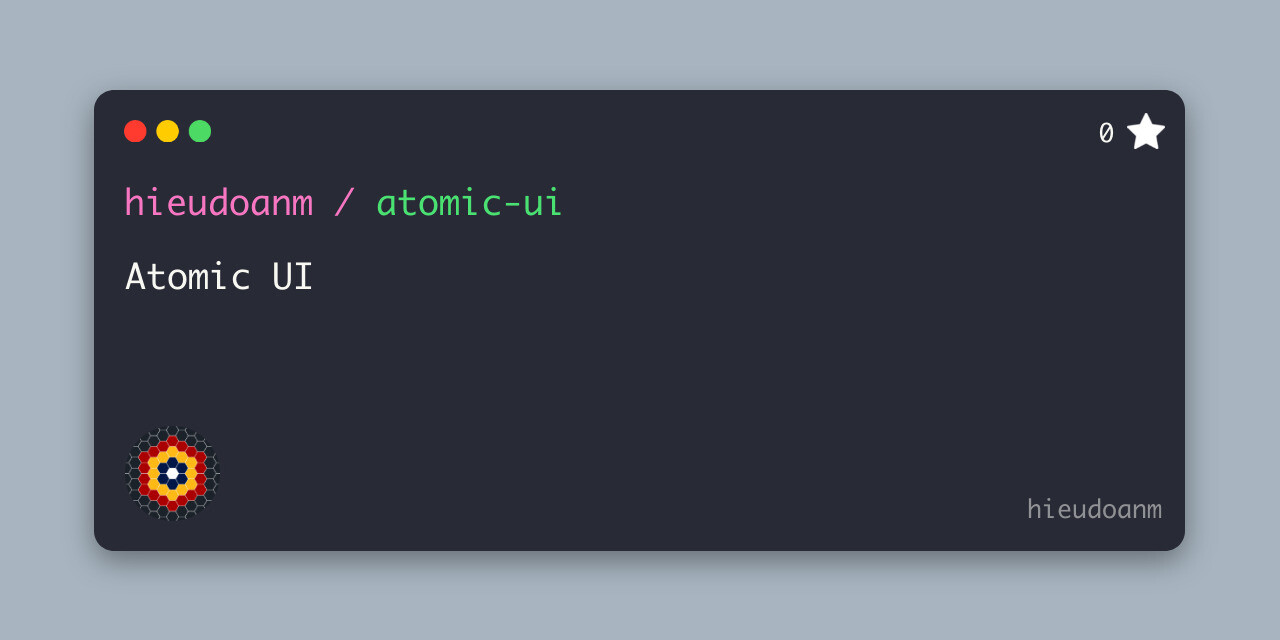
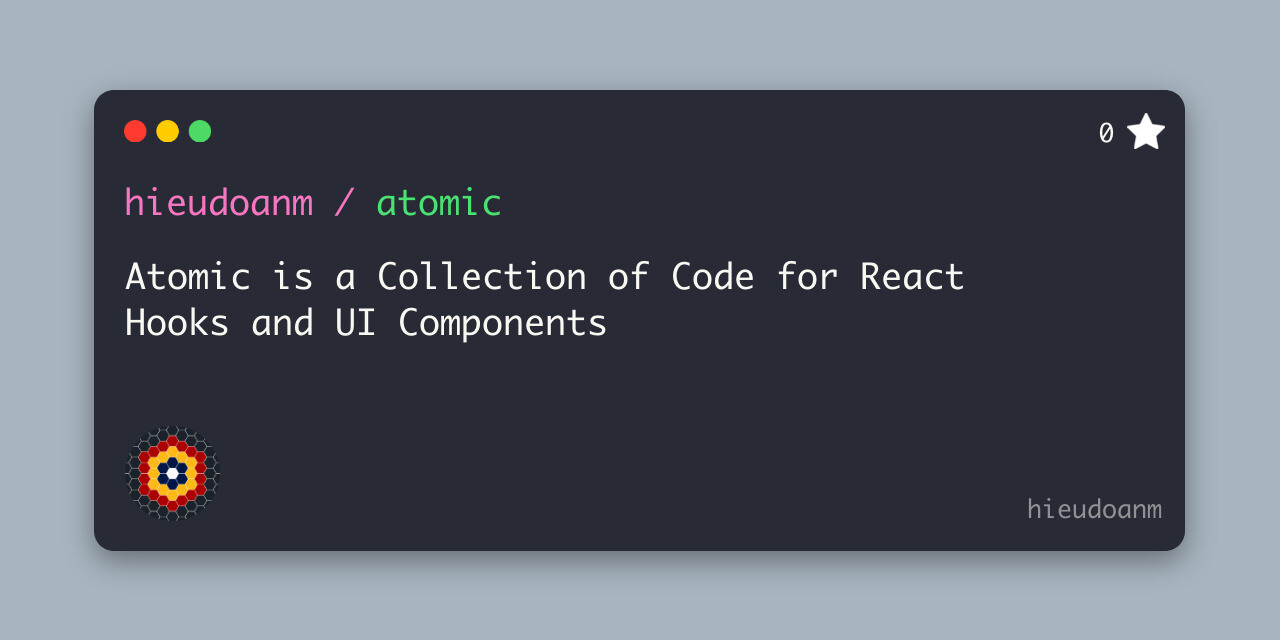
Update Cover

Changed region(s): [[0.0938, 0.4062, 0.75, 0.5312], [0.4062, 0.2812, 0.4375, 0.3438]]

diff --git a/docs/404.html b/docs/404.html
@@ -28,8 +28,8 @@
     <script src="/atomic/_next/static/chunks/main-8d7dd1e75befd907.js" defer=""></script>
     <script src="/atomic/_next/static/chunks/pages/_app-825d5fc0731222a7.js" defer=""></script>
     <script src="/atomic/_next/static/chunks/pages/_error-6ee6de26e6bc46a7.js" defer=""></script>
-    <script src="/atomic/_next/static/CEgvF0cWGImytEKHuQUFI/_buildManifest.js" defer=""></script>
-    <script src="/atomic/_next/static/CEgvF0cWGImytEKHuQUFI/_ssgManifest.js" defer=""></script>
+    <script src="/atomic/_next/static/lL2hD1MT33Fpni0zFg-ui/_buildManifest.js" defer=""></script>
+    <script src="/atomic/_next/static/lL2hD1MT33Fpni0zFg-ui/_ssgManifest.js" defer=""></script>
   </head>
   <body class="antialiased">
     <div id="__next">
@@ -91,7 +91,7 @@
         "props": { "pageProps": { "statusCode": 404 } },
         "page": "/_error",
         "query": {},
-        "buildId": "CEgvF0cWGImytEKHuQUFI",
+        "buildId": "lL2hD1MT33Fpni0zFg-ui",
         "assetPrefix": "/atomic",
         "nextExport": true,
         "isFallback": false,

diff --git a/docs/404/index.html b/docs/404/index.html
@@ -28,8 +28,8 @@
     <script src="/atomic/_next/static/chunks/main-8d7dd1e75befd907.js" defer=""></script>
     <script src="/atomic/_next/static/chunks/pages/_app-825d5fc0731222a7.js" defer=""></script>
     <script src="/atomic/_next/static/chunks/pages/_error-6ee6de26e6bc46a7.js" defer=""></script>
-    <script src="/atomic/_next/static/CEgvF0cWGImytEKHuQUFI/_buildManifest.js" defer=""></script>
-    <script src="/atomic/_next/static/CEgvF0cWGImytEKHuQUFI/_ssgManifest.js" defer=""></script>
+    <script src="/atomic/_next/static/lL2hD1MT33Fpni0zFg-ui/_buildManifest.js" defer=""></script>
+    <script src="/atomic/_next/static/lL2hD1MT33Fpni0zFg-ui/_ssgManifest.js" defer=""></script>
   </head>
   <body class="antialiased">
     <div id="__next">
@@ -91,7 +91,7 @@
         "props": { "pageProps": { "statusCode": 404 } },
         "page": "/_error",
         "query": {},
-        "buildId": "CEgvF0cWGImytEKHuQUFI",
+        "buildId": "lL2hD1MT33Fpni0zFg-ui",
         "assetPrefix": "/atomic",
         "nextExport": true,
         "isFallback": false,

diff --git a/docs/index.html b/docs/index.html
@@ -29,8 +29,8 @@
     <script src="/atomic/_next/static/chunks/pages/_app-825d5fc0731222a7.js" defer=""></script>
     <script src="/atomic/_next/static/chunks/6826-1b8246ce82a5e8e9.js" defer=""></script>
     <script src="/atomic/_next/static/chunks/pages/index-e9eaf1febdefbd3f.js" defer=""></script>
-    <script src="/atomic/_next/static/CEgvF0cWGImytEKHuQUFI/_buildManifest.js" defer=""></script>
-    <script src="/atomic/_next/static/CEgvF0cWGImytEKHuQUFI/_ssgManifest.js" defer=""></script>
+    <script src="/atomic/_next/static/lL2hD1MT33Fpni0zFg-ui/_buildManifest.js" defer=""></script>
+    <script src="/atomic/_next/static/lL2hD1MT33Fpni0zFg-ui/_ssgManifest.js" defer=""></script>
   </head>
   <body class="antialiased">
     <div id="__next">
@@ -155,7 +155,7 @@
         "props": { "pageProps": {} },
         "page": "/",
         "query": {},
-        "buildId": "CEgvF0cWGImytEKHuQUFI",
+        "buildId": "lL2hD1MT33Fpni0zFg-ui",
         "assetPrefix": "/atomic",
         "nextExport": true,
         "autoExport": true,

diff --git a/docs/hooks/index.html b/docs/hooks/index.html
@@ -30,8 +30,8 @@
     <script src="/atomic/_next/static/chunks/6826-1b8246ce82a5e8e9.js" defer=""></script>
     <script src="/atomic/_next/static/chunks/2959-e0da111c58e4eaef.js" defer=""></script>
     <script src="/atomic/_next/static/chunks/pages/hooks-3397778bc4005e24.js" defer=""></script>
-    <script src="/atomic/_next/static/CEgvF0cWGImytEKHuQUFI/_buildManifest.js" defer=""></script>
-    <script src="/atomic/_next/static/CEgvF0cWGImytEKHuQUFI/_ssgManifest.js" defer=""></script>
+    <script src="/atomic/_next/static/lL2hD1MT33Fpni0zFg-ui/_buildManifest.js" defer=""></script>
+    <script src="/atomic/_next/static/lL2hD1MT33Fpni0zFg-ui/_ssgManifest.js" defer=""></script>
   </head>
   <body class="antialiased">
     <div id="__next">
@@ -697,7 +697,7 @@
         },
         "page": "/hooks",
         "query": {},
-        "buildId": "CEgvF0cWGImytEKHuQUFI",
+        "buildId": "lL2hD1MT33Fpni0zFg-ui",
         "assetPrefix": "/atomic",
         "isFallback": false,
         "gsp": true,

diff --git a/docs/ui/index.html b/docs/ui/index.html
@@ -30,8 +30,8 @@
     <script src="/atomic/_next/static/chunks/6826-1b8246ce82a5e8e9.js" defer=""></script>
     <script src="/atomic/_next/static/chunks/2959-e0da111c58e4eaef.js" defer=""></script>
     <script src="/atomic/_next/static/chunks/pages/ui-016c10f4d29ccccd.js" defer=""></script>
-    <script src="/atomic/_next/static/CEgvF0cWGImytEKHuQUFI/_buildManifest.js" defer=""></script>
-    <script src="/atomic/_next/static/CEgvF0cWGImytEKHuQUFI/_ssgManifest.js" defer=""></script>
+    <script src="/atomic/_next/static/lL2hD1MT33Fpni0zFg-ui/_buildManifest.js" defer=""></script>
+    <script src="/atomic/_next/static/lL2hD1MT33Fpni0zFg-ui/_ssgManifest.js" defer=""></script>
   </head>
   <body class="antialiased">
     <div id="__next">
@@ -1977,7 +1977,7 @@
         },
         "page": "/ui",
         "query": {},
-        "buildId": "CEgvF0cWGImytEKHuQUFI",
+        "buildId": "lL2hD1MT33Fpni0zFg-ui",
         "assetPrefix": "/atomic",
         "isFallback": false,
         "gsp": true,

diff --git a/README.md b/README.md
@@ -1,16 +1,17 @@
-# [`atomic/front-end`](https://hieudoanm.github.io/atomic/)
+# [`atomic`](https://hieudoanm.github.io/atomic/)
 
 ![cover](./images/cover.jpg)
 
 ## Table of Contents
 
-- [`atomic/front-end`](#atomicfront-end)
+- [`atomic`](#atomic)
   - [Table of Contents](#table-of-contents)
   - [Introduction](#introduction)
   - [Code](#code)
-    - [Components](#components)
-      - [Inspired By](#inspired-by)
-    - [Hooks](#hooks)
+    - [React Hooks](#react-hooks)
+      - [React Hooks - Inspired By](#react-hooks---inspired-by)
+    - [UI Components](#ui-components)
+      - [UI - Inspired By](#ui---inspired-by)
   - [Themes / Preview](#themes--preview)
     - [Dark](#dark)
     - [Light](#light)
@@ -32,7 +33,35 @@ Browse the website for the components/hooks you need, copy the code and paste it
 
 Status: `In Progress` - `Completed`
 
-### Components
+### React Hooks
+
+`atomic/hooks` offer 16 components for free.
+
+| No  | Group No | Group Name | Hook                  | Status    |
+| --- | -------- | ---------- | --------------------- | --------- |
+| 01  | 1.1      | Boolean    | `use-boolean`         | Completed |
+| 02  | 1.2      | Boolean    | `use-toggle`          | Completed |
+| 03  | 2.1      | Events     | `use-keyboard`        | Completed |
+| 04  | 2.2      | Events     | `use-online`          | Completed |
+| 05  | 2.3      | Events     | `use-resize`          | Completed |
+| 06  | 2.4      | Events     | `use-scroll`          | Completed |
+| 07  | 3.1      | Info       | `use-battery`         | Completed |
+| 08  | 3.2      | Info       | `use-browser`         | Completed |
+| 09  | 3.3      | Info       | `use-language`        | Completed |
+| 10  | 3.4      | Info       | `use-screen`          | Completed |
+| 11  | 4.1      | Navigator  | `use-clipboard`       | Completed |
+| 12  | 4.2      | Navigator  | `use-geolocation`     | Completed |
+| 13  | 5.1      | Storage    | `use-local-storage`   | Completed |
+| 14  | 5.2      | Storage    | `use-session-storage` | Completed |
+| 15  | 6.1      | Time       | `use-timeout`         | Completed |
+| 16  | 6.2      | Time       | `use-interval`        | Completed |
+
+#### React Hooks - Inspired By
+
+1. [useHooks](https://usehooks.com/)
+2. [useHooksTS](https://usehooks-ts.com/)
+
+### UI Components
 
 `atomic/ui` offer 44 components for free.
 
@@ -83,36 +112,13 @@ Status: `In Progress` - `Completed`
 | 43  | 7.03     | Typography | Heading           | Completed   |
 | 44  | 7.04     | Typography | Text              | Completed   |
 
-#### Inspired By
+#### UI - Inspired By
 
 1. [Ant Design](https://ant.design/)
 2. [Chakra UI](https://chakra-ui.com/)
 3. [DaisyUI](https://daisyui.com/)
 4. [Material UI](https://mui.com/)
 5. [Tailwind UI](https://tailwindui.com/)
-
-### Hooks
-
-`atomic/hooks` offer 16 components for free.
-
-| No  | Group No | Group Name | Hook                  | Status    |
-| --- | -------- | ---------- | --------------------- | --------- |
-| 01  | 1.1      | Boolean    | `use-boolean`         | Completed |
-| 02  | 1.2      | Boolean    | `use-toggle`          | Completed |
-| 03  | 2.1      | Events     | `use-keyboard`        | Completed |
-| 04  | 2.2      | Events     | `use-online`          | Completed |
-| 05  | 2.3      | Events     | `use-resize`          | Completed |
-| 06  | 2.4      | Events     | `use-scroll`          | Completed |
-| 07  | 3.1      | Info       | `use-battery`         | Completed |
-| 08  | 3.2      | Info       | `use-browser`         | Completed |
-| 09  | 3.3      | Info       | `use-language`        | Completed |
-| 10  | 3.4      | Info       | `use-screen`          | Completed |
-| 11  | 4.1      | Navigator  | `use-clipboard`       | Completed |
-| 12  | 4.2      | Navigator  | `use-geolocation`     | Completed |
-| 13  | 5.1      | Storage    | `use-local-storage`   | Completed |
-| 14  | 5.2      | Storage    | `use-session-storage` | Completed |
-| 15  | 6.1      | Time       | `use-timeout`         | Completed |
-| 16  | 6.2      | Time       | `use-interval`        | Completed |
 
 ## Themes / Preview
 
